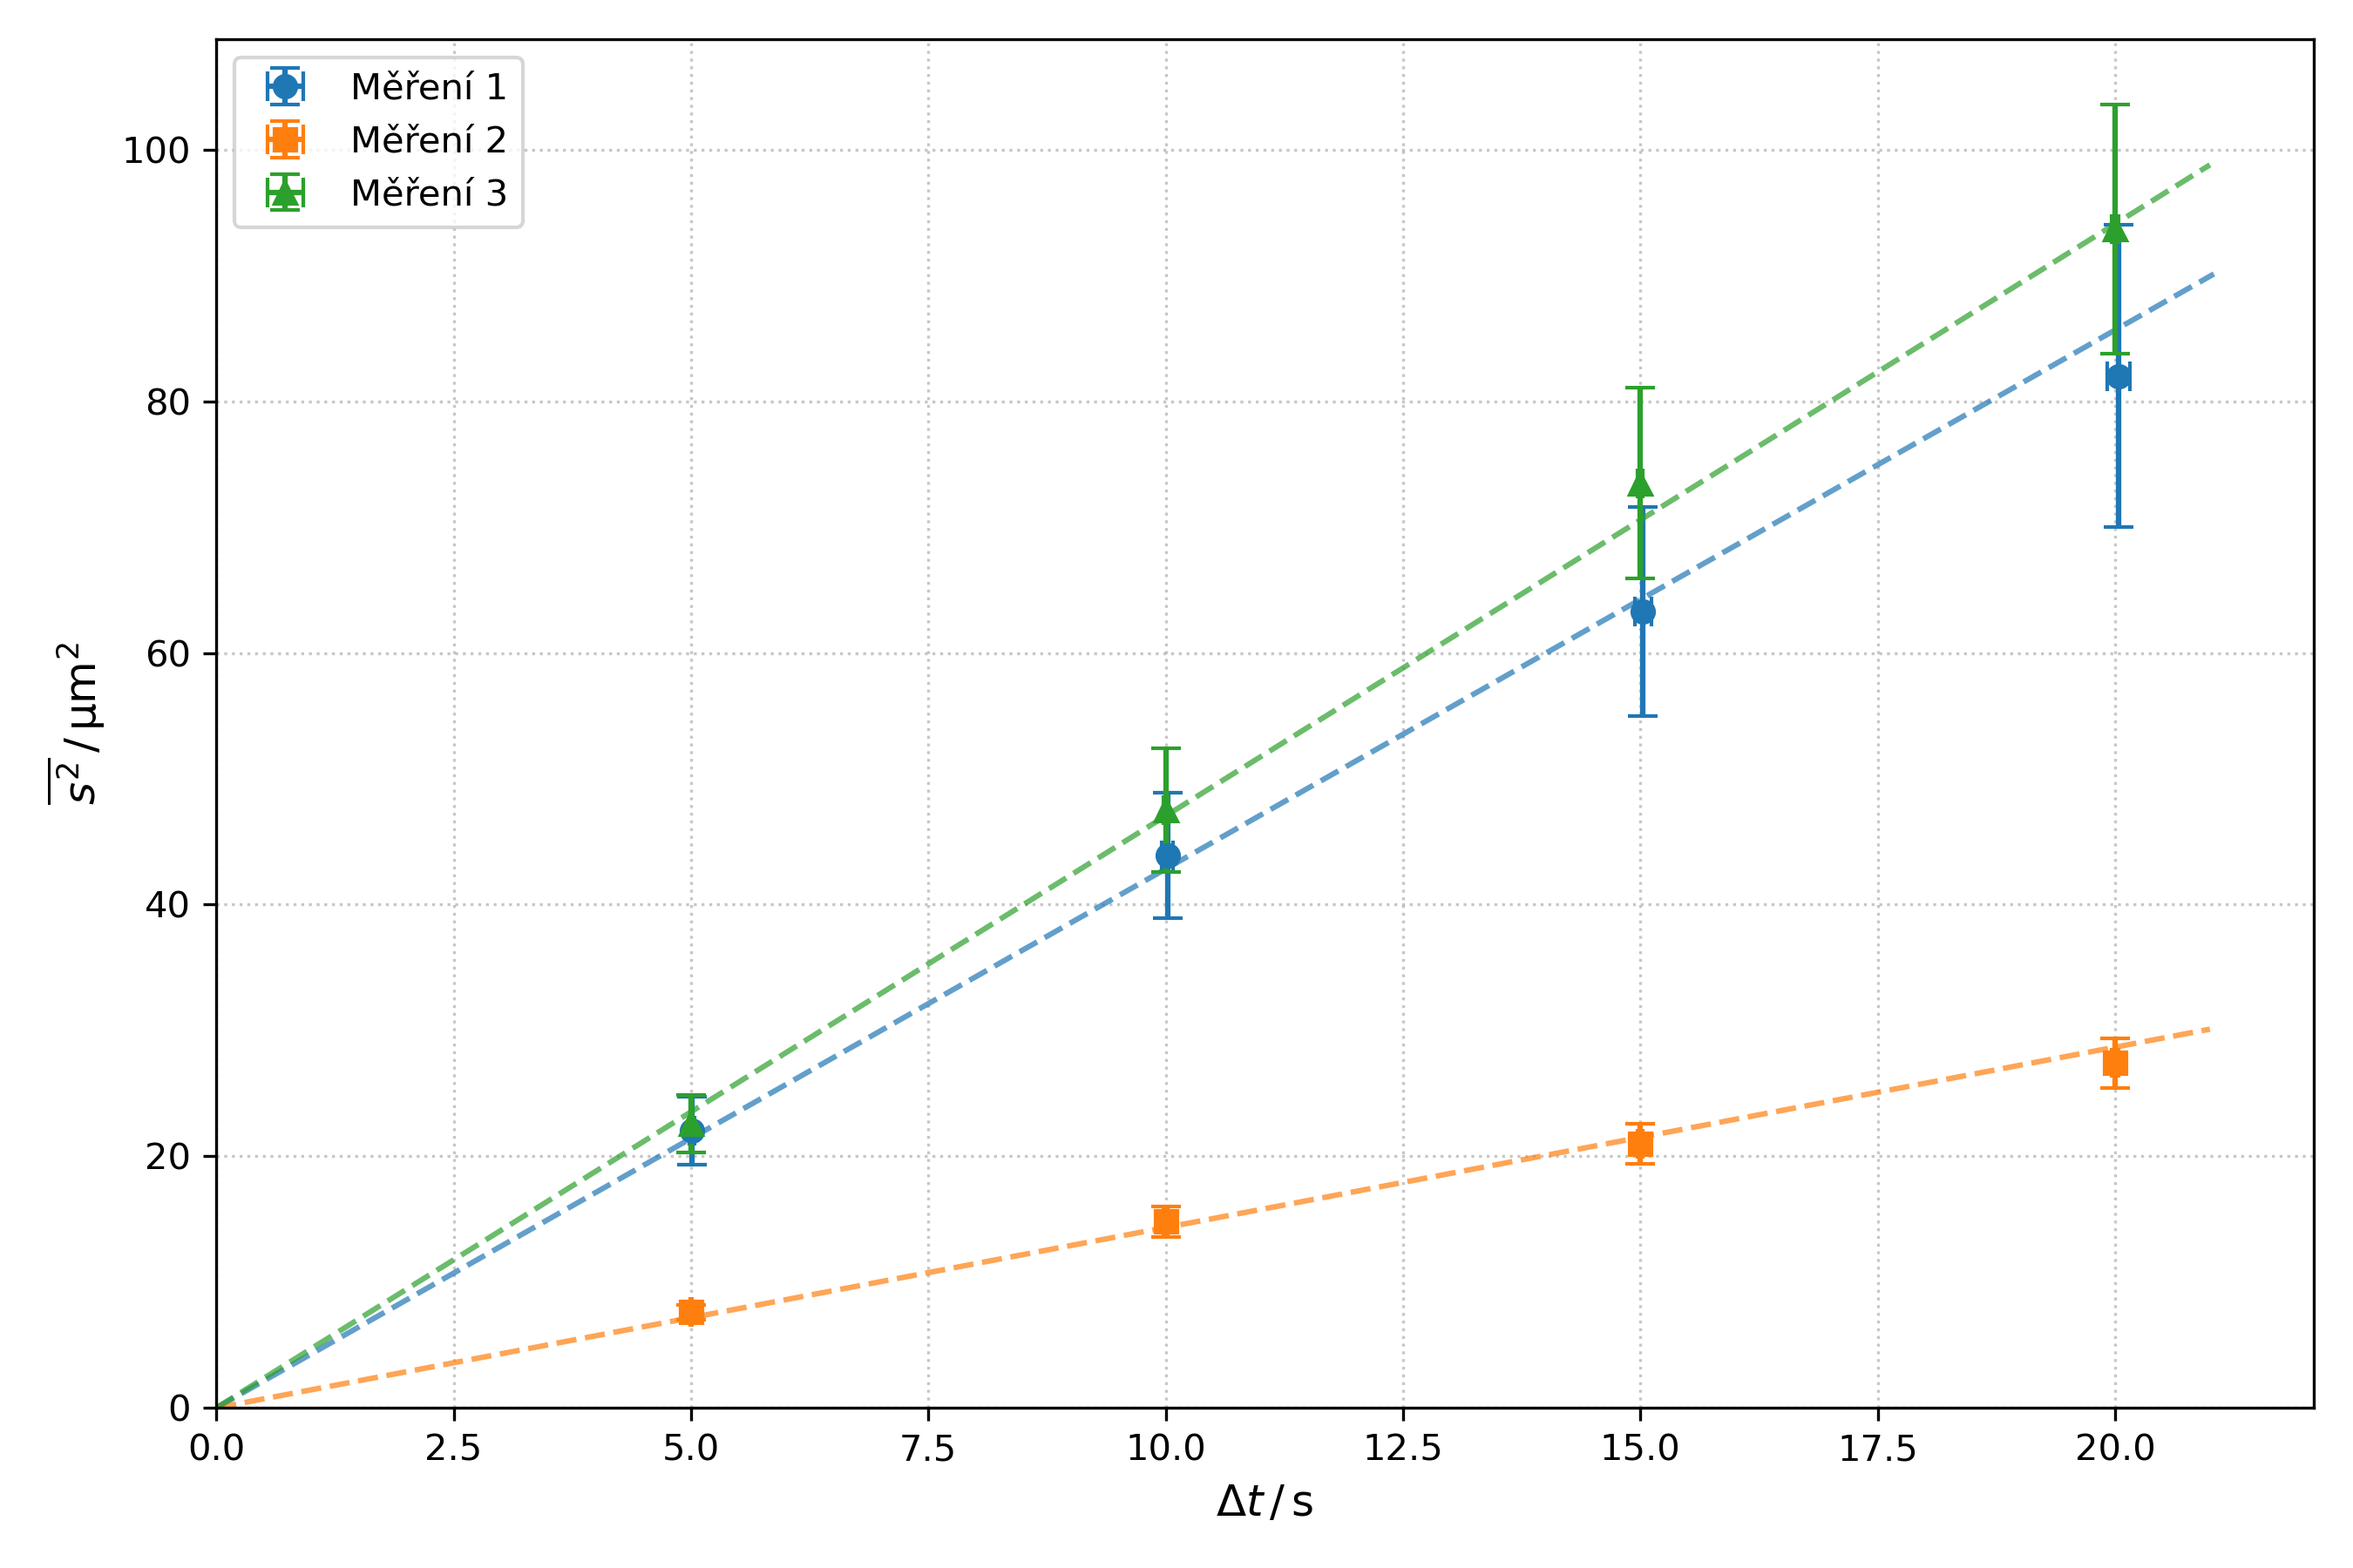
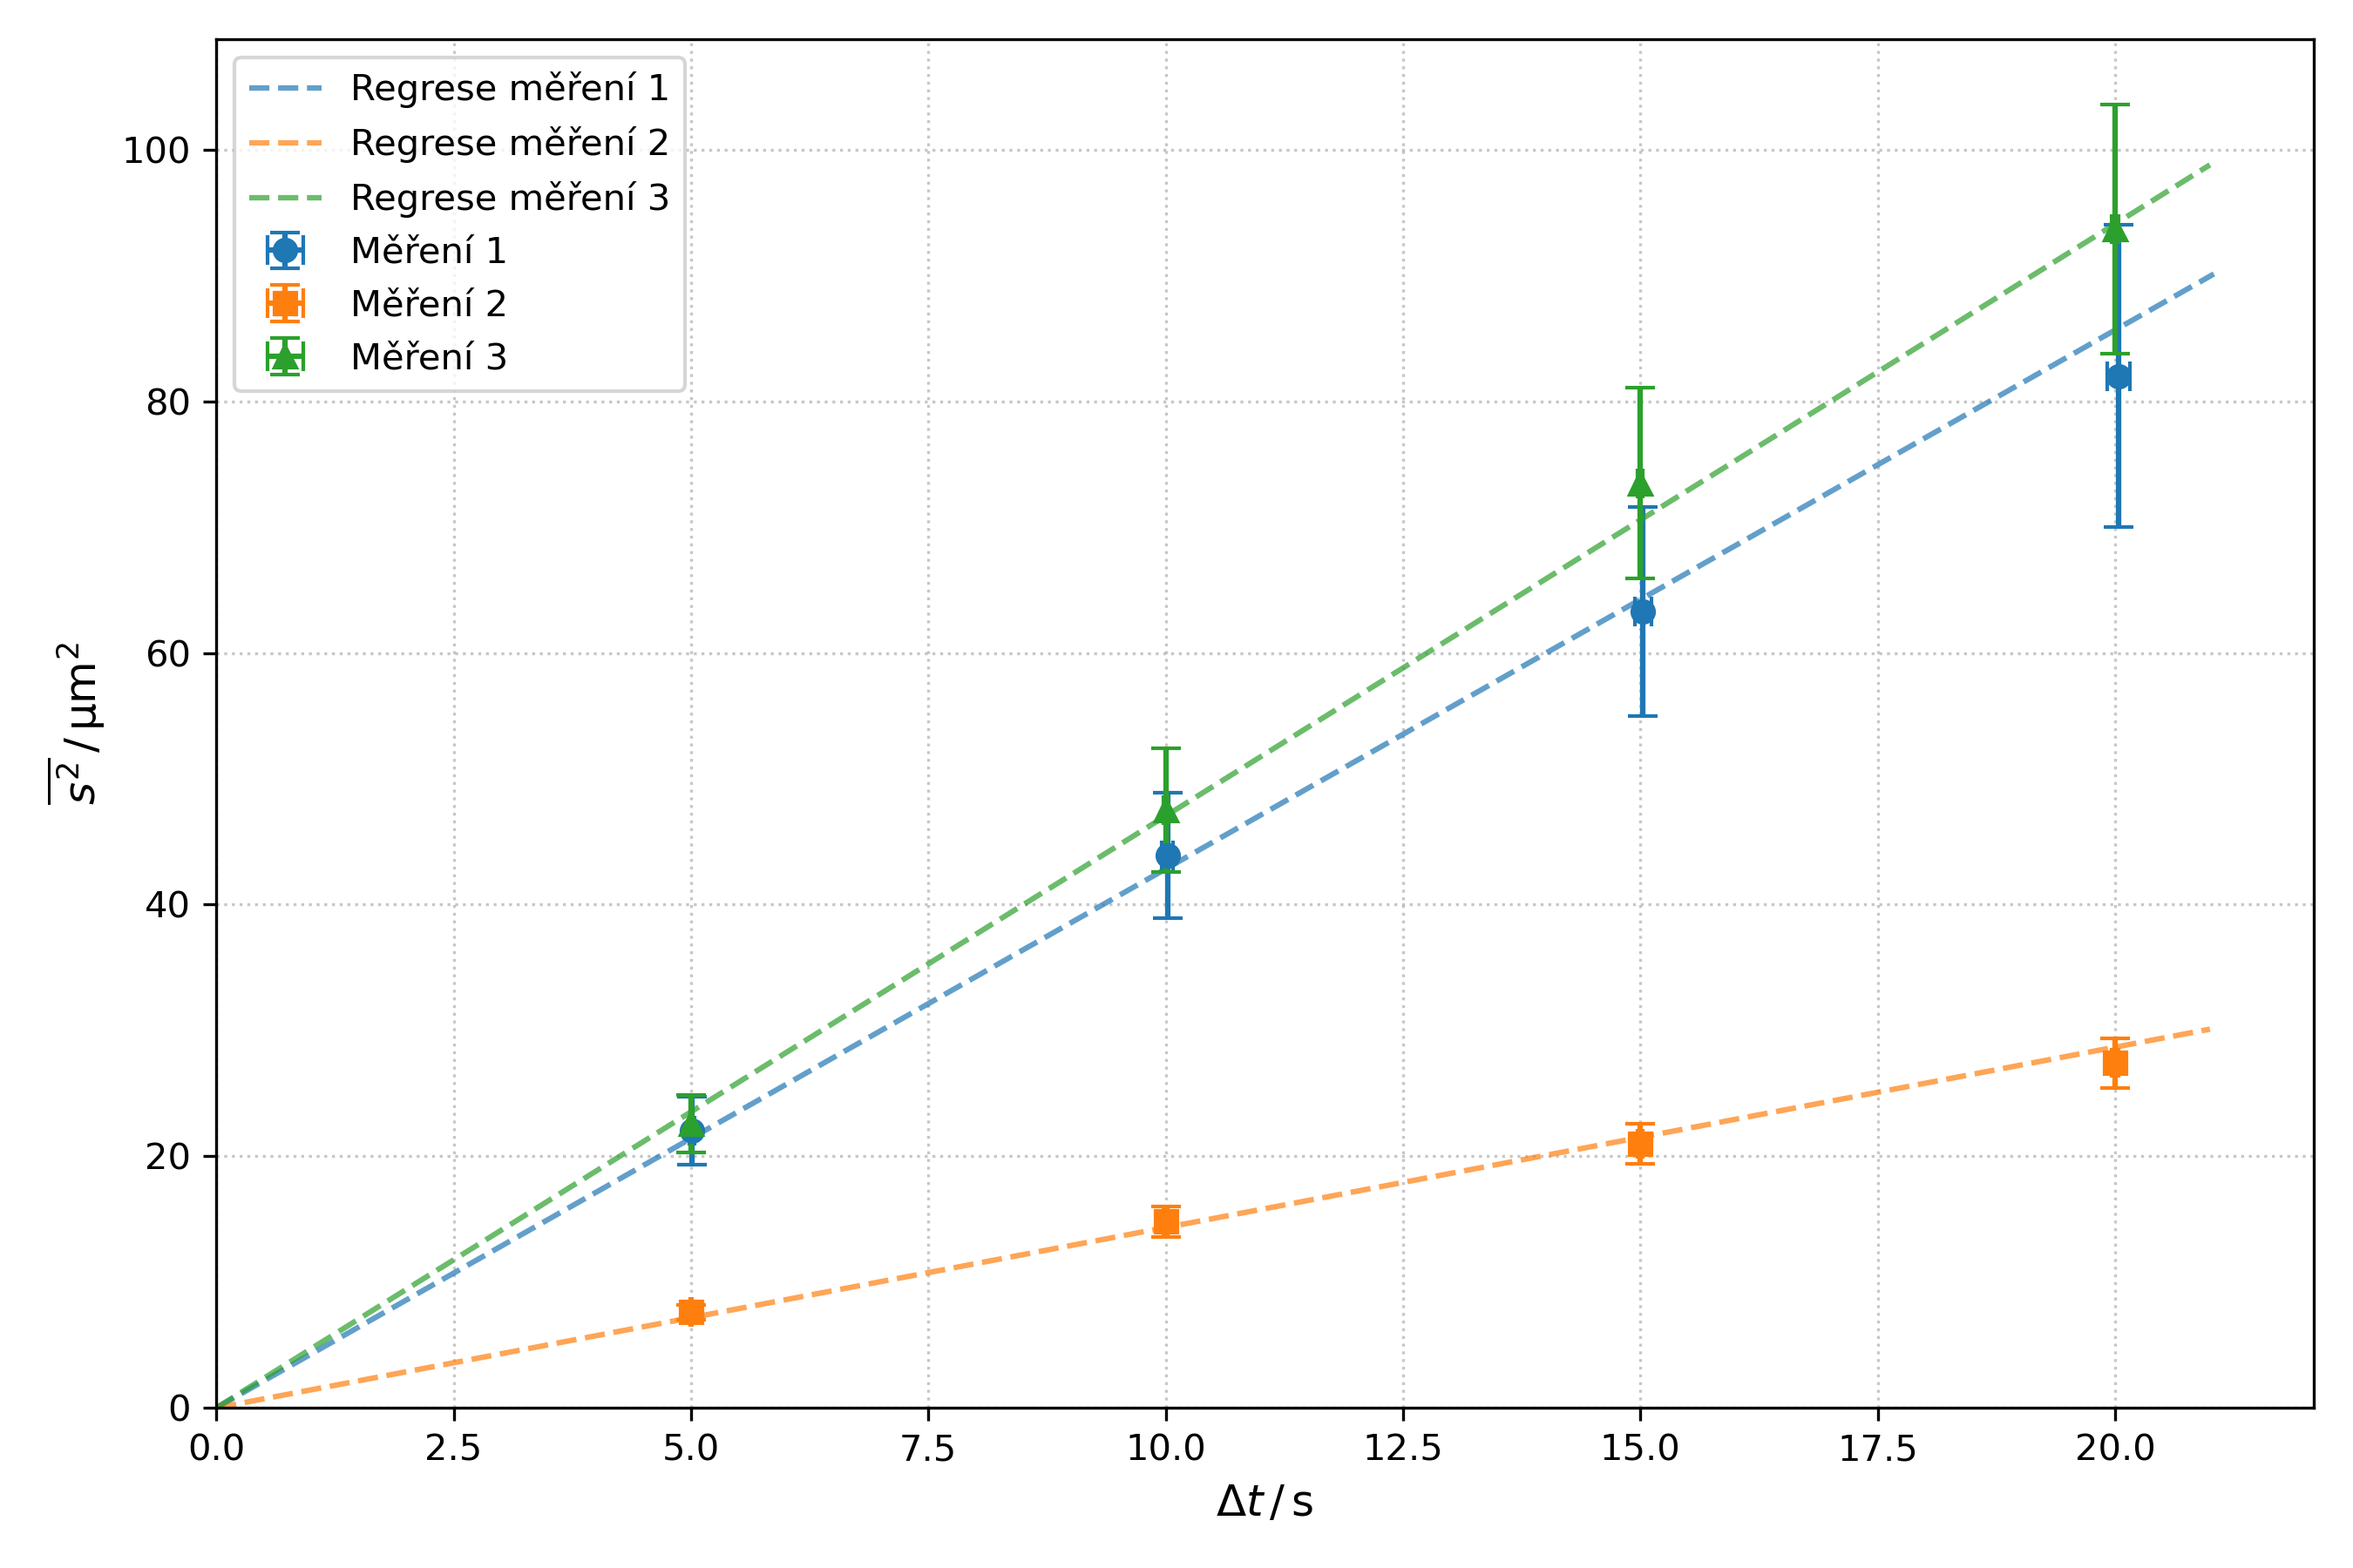
brown popisky

Changed region(s): [[0.0933, 0.0311, 0.28, 0.2489]]

diff --git a/Praktika/XVI/script_analyse.py b/Praktika/XVI/script_analyse.py
@@ -136,8 +136,7 @@ def main():
         
         x_fit = np.linspace(0, max(x_data)*1.05, 100)
         y_fit = linear_model(x_fit, a_val)
-        plt.plot(x_fit, y_fit, color=colors[i%len(colors)], linestyle='--', alpha=0.7)
-        
+        plt.plot(x_fit, y_fit, color=colors[i%len(colors)], linestyle='--', alpha=0.7, label=f'Regrese měření {m_id}')
         report_lines.append(f"  Měření {m_id}: směrnice = {a_u:.1u} μm^2/s  =>  A = {A_u:.1u} μm^2/s")
 
     # 4. Výpočty pro obě varianty
